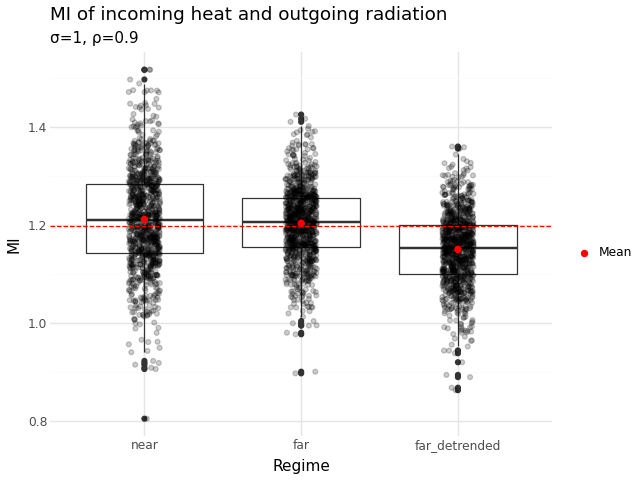
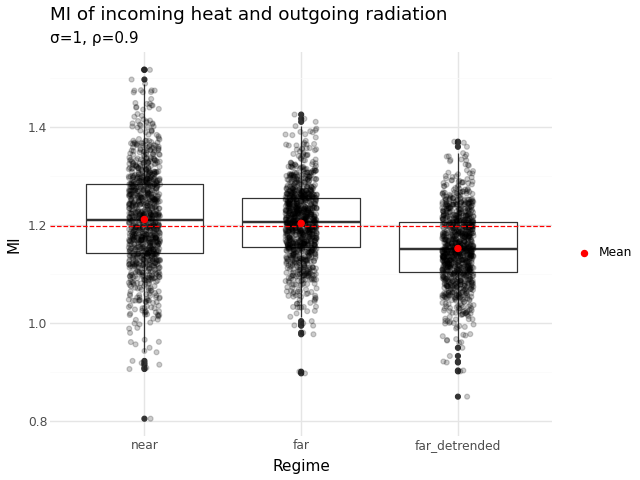
Bug fix

diff --git a/analysis.py b/analysis.py
@@ -38,12 +38,12 @@ def detrend_moving_average(x, window):
     return x - trend
 
 
-def compute_mi(g, detrend_incoming=False, window=51):
+def compute_mi(g, detrend_outgoing=False, window=51):
     incoming = g["incoming"].to_numpy()
     outgoing = g["outgoing"].to_numpy()
 
-    if detrend_incoming:
-        incoming = detrend_moving_average(incoming, window=window)
+    if detrend_outgoing:
+        outgoing = detrend_moving_average(outgoing, window=window)
 
     return ee.mi(incoming, outgoing, k=3)
 
@@ -86,15 +86,15 @@ def main():
     result_base = (
         df[df["regime"].isin(["near", "far"])]
         .groupby(["ensemble", "regime"])
-        .apply(lambda g: compute_mi(g, detrend_incoming=False))
+        .apply(lambda g: compute_mi(g, detrend_outgoing=False))
         .reset_index(name="mi")
     )
 
-    # far, with detrended incoming
+    # far, with detrended outgoing radiation
     result_far_detrended = (
         df[df["regime"] == "far"]
         .groupby("ensemble")
-        .apply(lambda g: compute_mi(g, detrend_incoming=True, window=51))
+        .apply(lambda g: compute_mi(g, detrend_outgoing=True, window=51))
         .reset_index(name="mi")
     )
 
